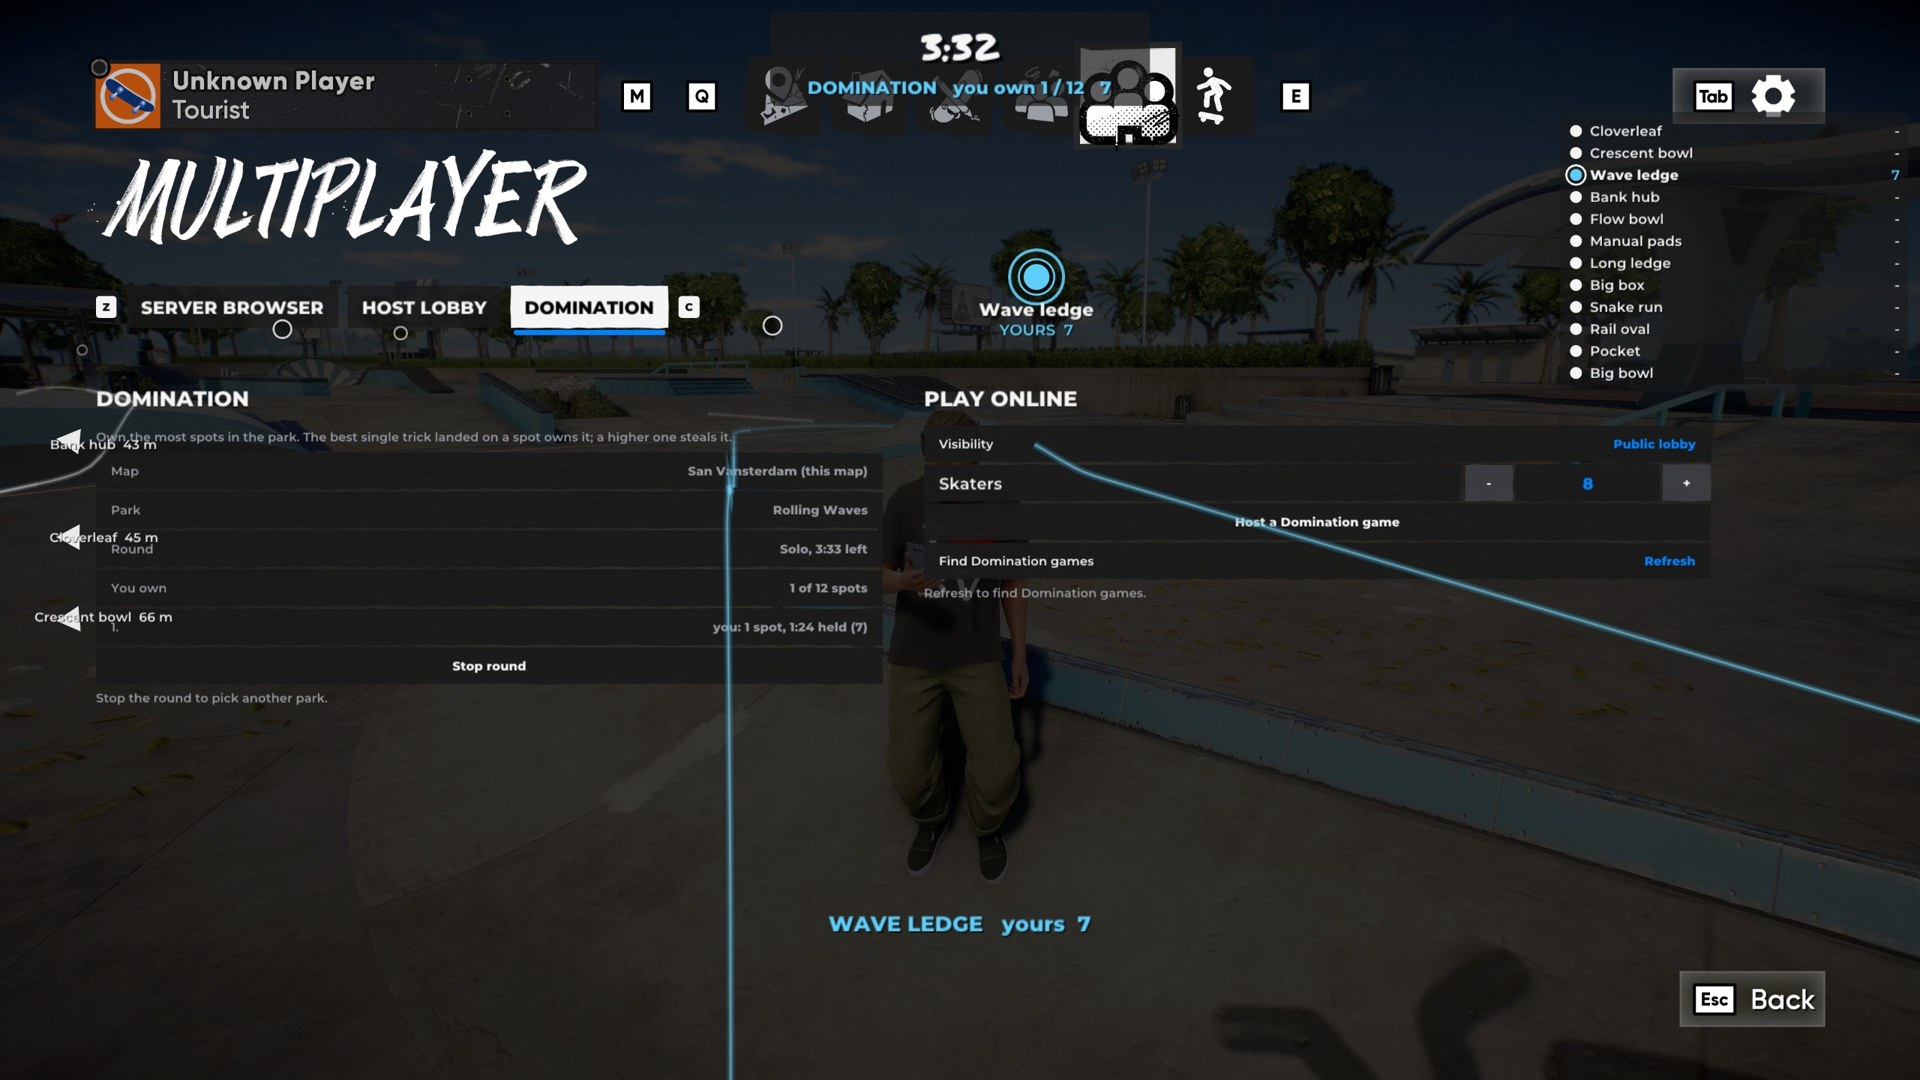
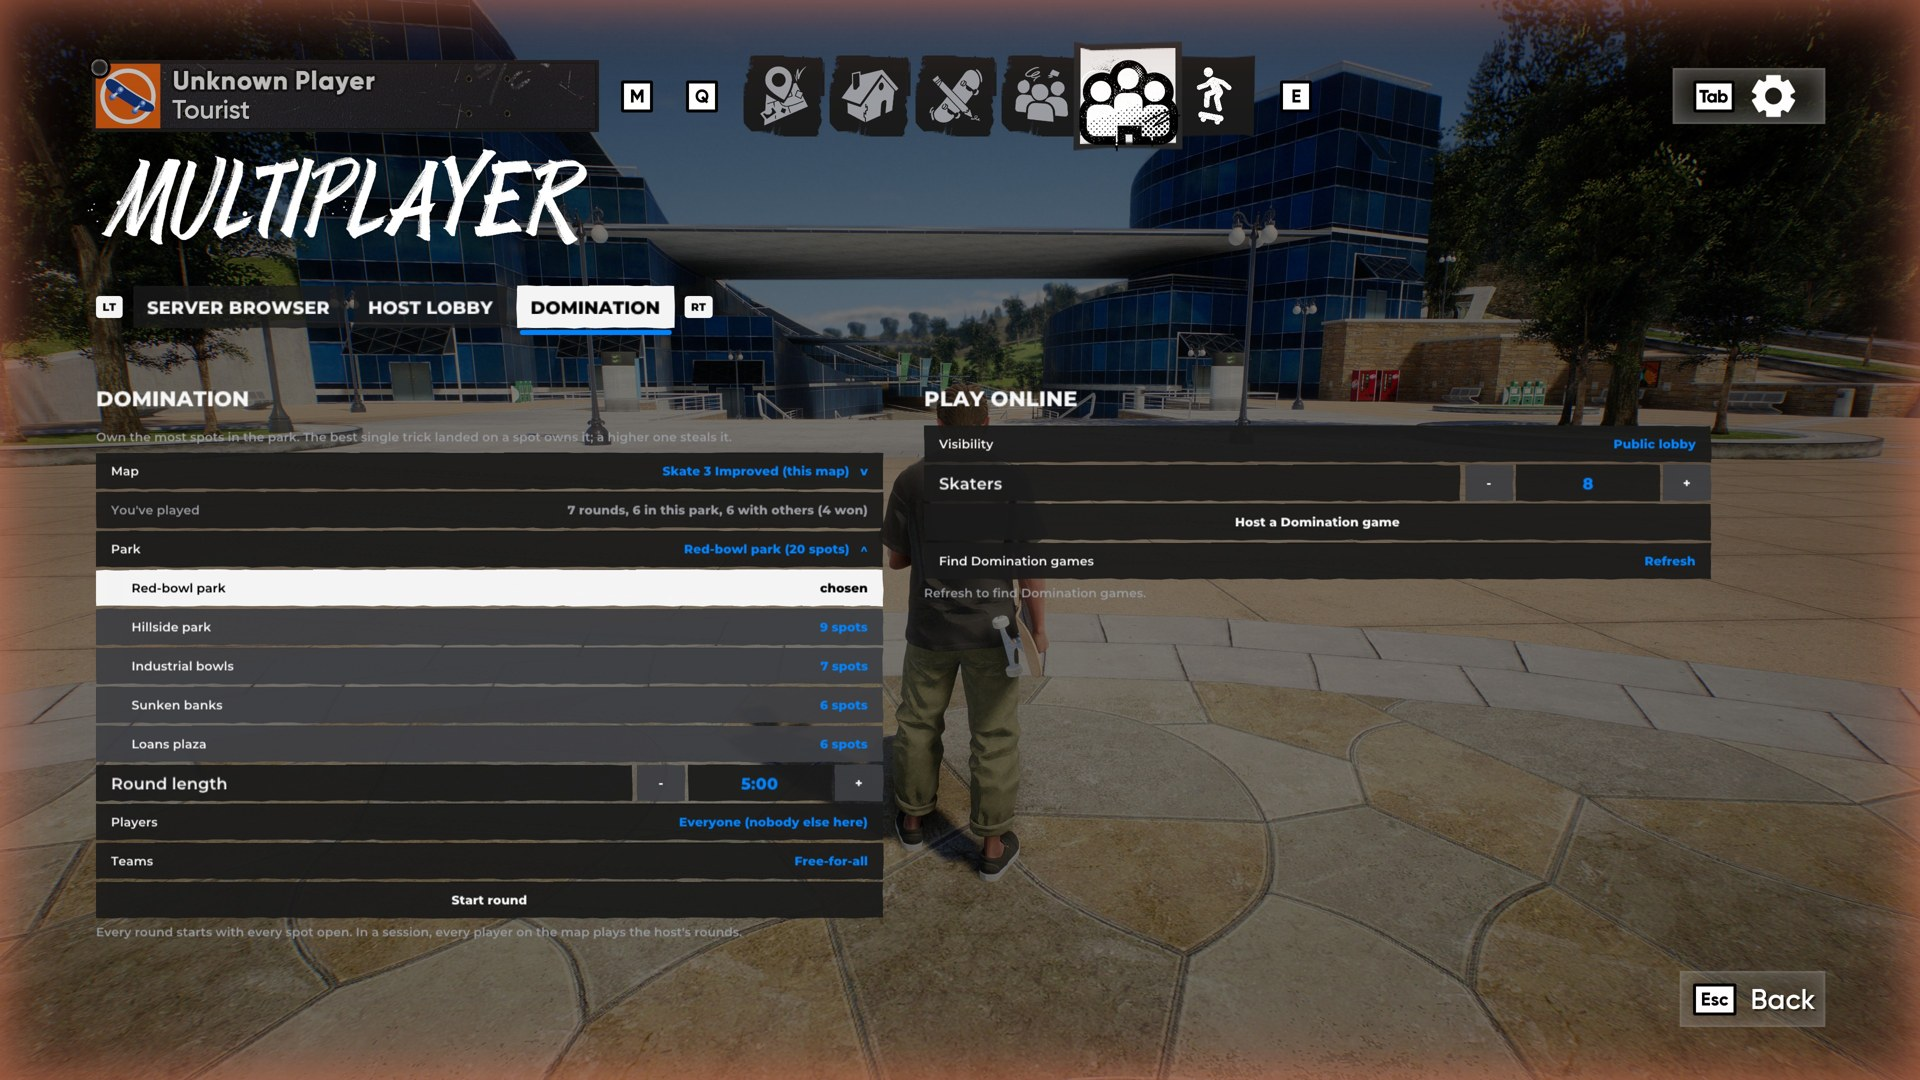
Notes: the DOMINATION tab's Map and Park dropdowns

diff --git a/SUBMITTING.md b/SUBMITTING.md
@@ -108,7 +108,6 @@ Use `-3`: once one of the two is in `main`, the other's patch touches lines next
 - **Rebased on `main` `364c619`** (two rebases since the first base; the last resolved two conflicts: test options added beside ours in `CMakeLists.txt`, and the Multiplayer page split into `hub_frame`, given its area): all three apply cleanly; a Hillside park round with 3 practice bots agreed on every copy, on Skate 3 Improved 1.1.3 (all 48 Skate 3 spots also checked on 1.1.3: the skater stands on each).
 - **Live, two players:** played online between two PCs (two Steam accounts, ReSkate 2.1 built from these branches, a join-code lobby hosted from the DOMINATION tab): rounds ran for both players.
 - **Not tested yet:**
-  - the Domination tab's Map and Park dropdowns seen by a person (drawn in the tests, not yet pictured);
   - server play stats on a live server with players;
   - the menu sounds on taking or losing a spot (the log can't show them; heard only in play);
   - finding games by mode in the tab's list with a second player (hosting from the tab and joining by code was played).
@@ -268,7 +267,7 @@ In [pictures/](pictures/), all from the test copies (offline, practice bots stan
 | `06-parks-san-vansterdam.jpg`, `07-parks-skate3improved.jpg` | The ten built-in parks from above, spots and starts drawn on a height map |
 | `08-outlines-before-after.jpg` | Spot outlines before and after line-of-sight hiding |
 | `09-spot-check-hillside.jpg`, `10-spot-check-bonski.jpg` | Spot checks in game: a teleport to each spot with its outline and label |
-| `11-multiplayer-tab.jpg` | The DOMINATION tab on the Multiplayer page (an earlier build, during a round: before the Map and Park dropdowns) |
+| `11-multiplayer-tab.jpg`, `13-menu-map-dropdown.jpg` | The DOMINATION tab on the Multiplayer page, its Park and Map dropdowns open |
 | `12-pack-icons.png` | The two park packs' icons, drawn by `make_pack.py` from the parks' spots |
 
 ## Branches (local, not pushed)

diff --git a/pr-2-custom-multiplayer.md b/pr-2-custom-multiplayer.md
@@ -2,7 +2,11 @@
 
 A way for ReSkate's own game modes to plug into the pause menu. Each mode gets a tab on the Multiplayer page, after the page's own tabs (SERVER BROWSER, HOST LOBBY, ...), which are otherwise unchanged.
 
-![The DOMINATION tab on the Multiplayer page](pictures/11-multiplayer-tab.jpg)
+| | |
+|---|---|
+| ![The DOMINATION tab, its Park dropdown open](pictures/11-multiplayer-tab.jpg) | ![The Map dropdown](pictures/13-menu-map-dropdown.jpg) |
+
+The DOMINATION tab: a dropdown row lists its choices under it, one full-width row each (left: the parks on this map with their spot counts; right: the maps).
 
 ## What's in it
 

diff --git a/pr-1-domination.md b/pr-1-domination.md
@@ -30,6 +30,10 @@ skate. 3's Domination, for ReSkate. Own the most spots in a park: the best singl
 | ![Steal and feed](pictures/02-steal-and-feed.jpg) | ![Results](pictures/03-results.jpg) |
 | ![Teams round](pictures/04-teams-round.jpg) | ![Teams results](pictures/05-teams-results.jpg) |
 
+| | |
+|---|---|
+| ![The DOMINATION tab: Park dropdown](pictures/11-multiplayer-tab.jpg) | ![The Map dropdown](pictures/13-menu-map-dropdown.jpg) |
+
 ![San Vansterdam parks](pictures/06-parks-san-vansterdam.jpg)
 ![Skate 3 map mod parks](pictures/07-parks-skate3improved.jpg)
 
